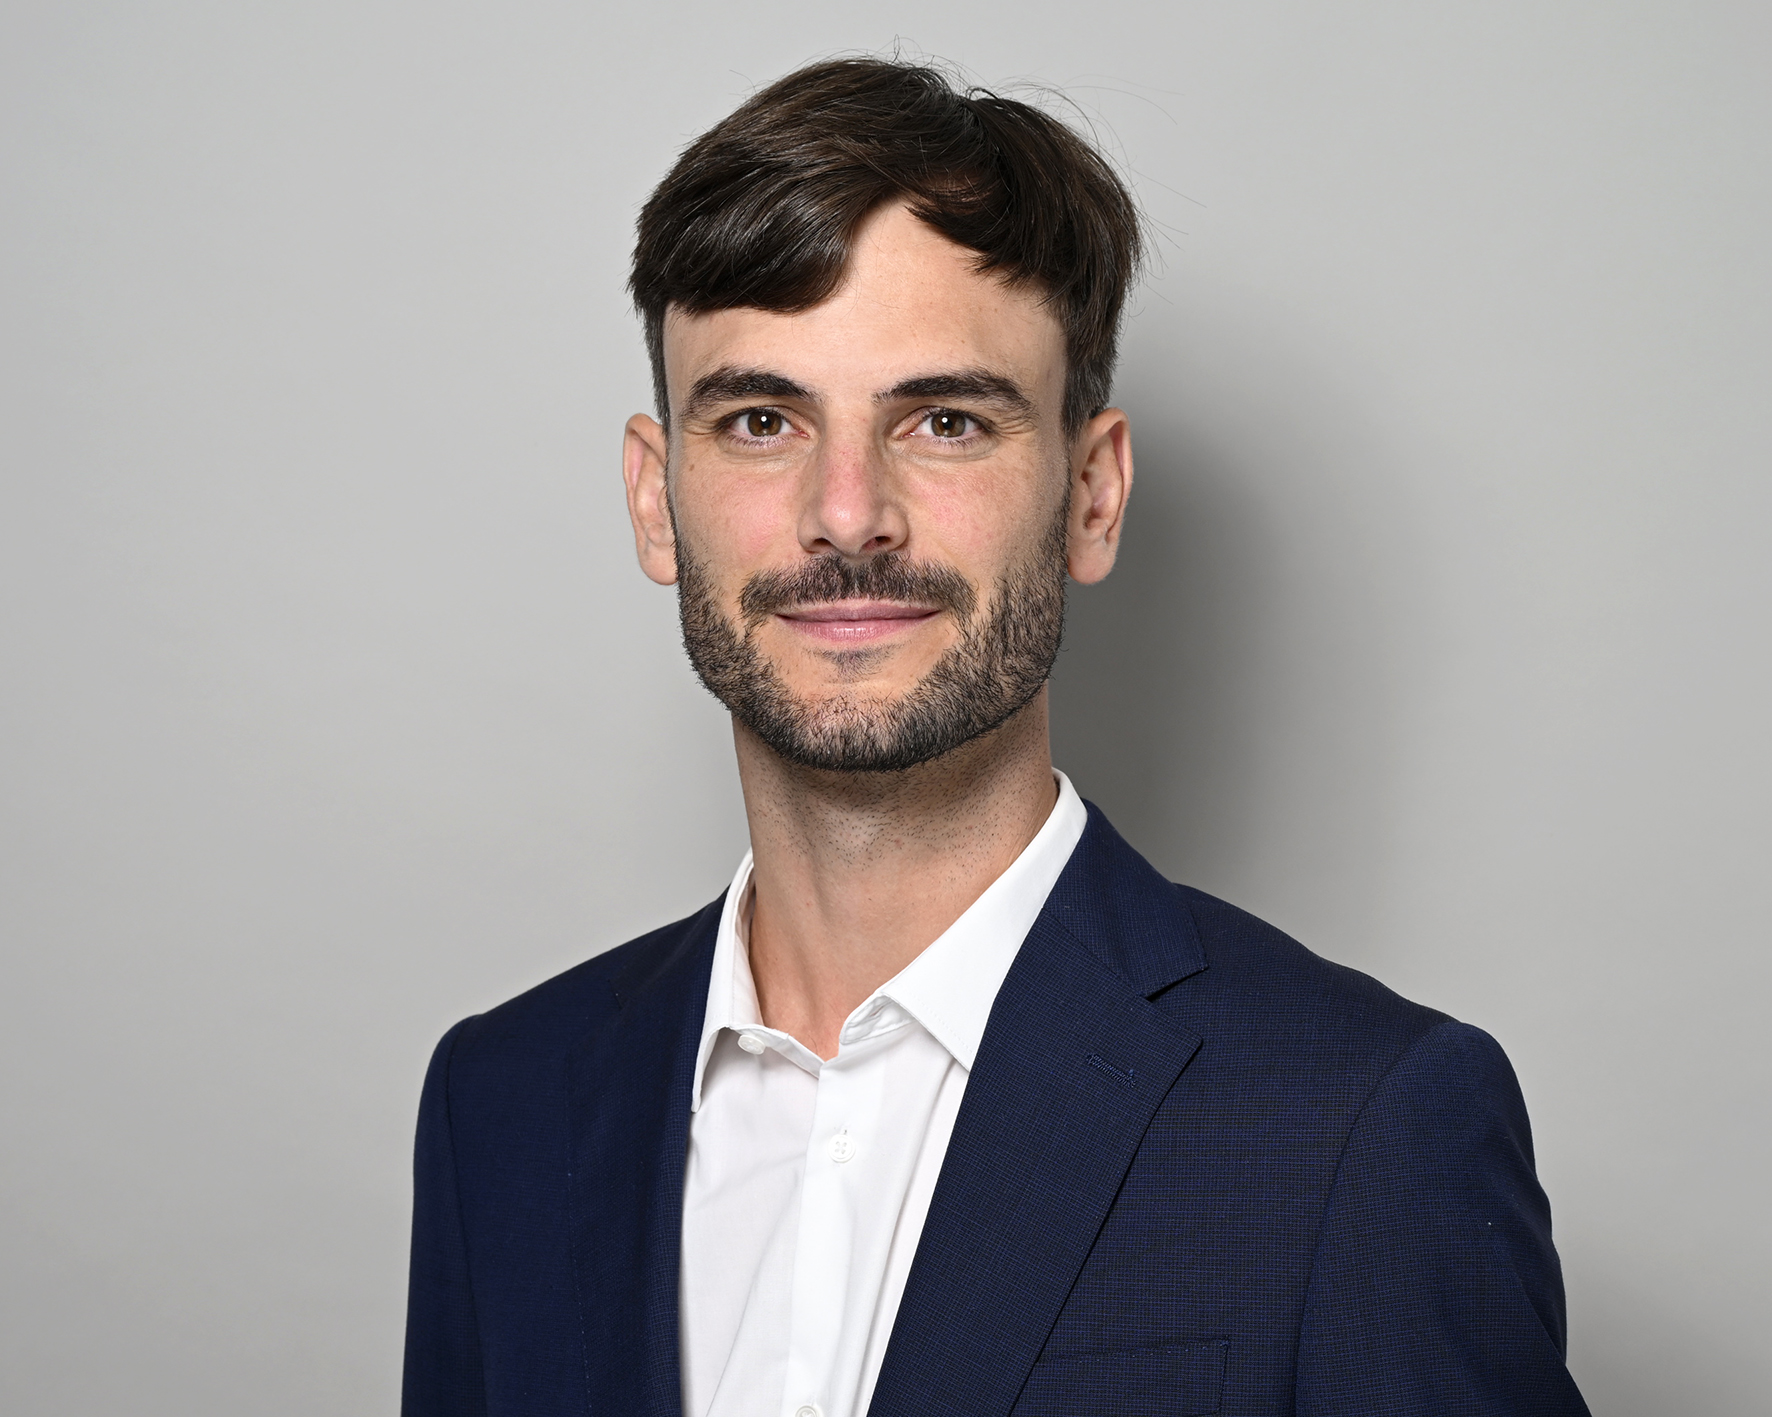
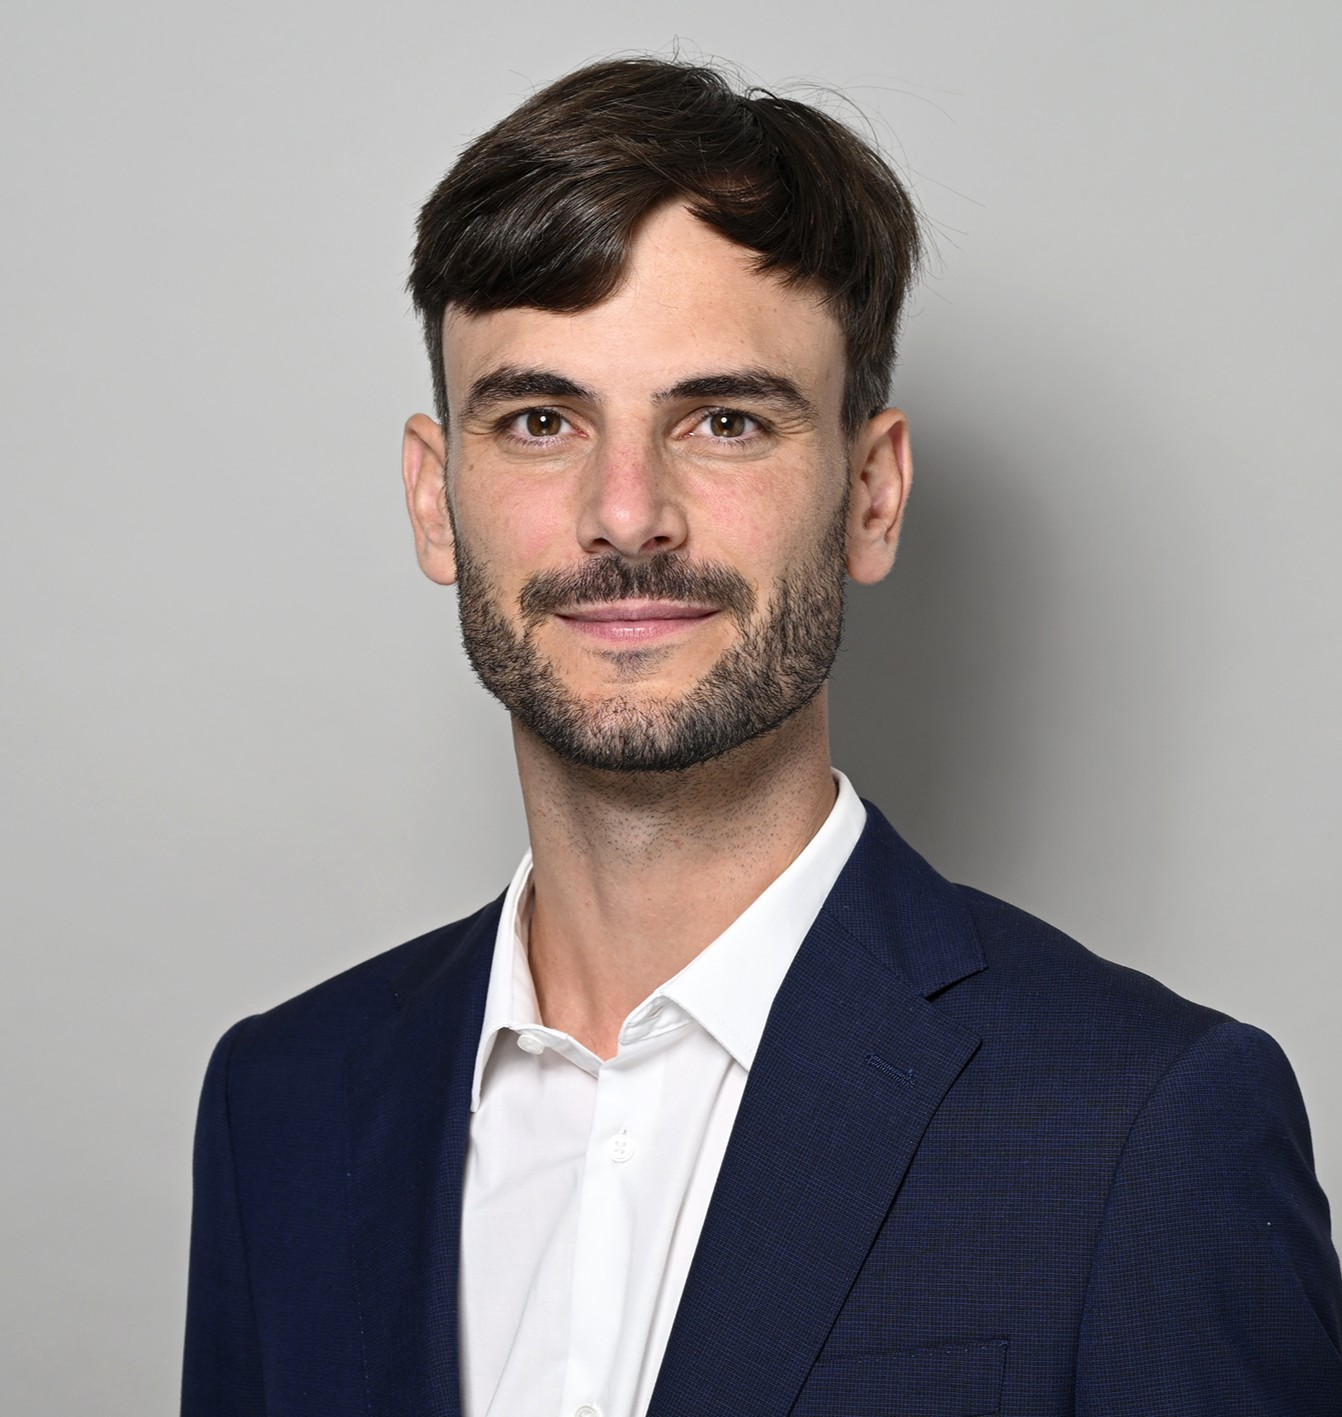
Title Case paper titles, new research fields, cropped photo

Changed region(s): [[0.1222, 0.0311, 1.0, 1.0], [0.4277, 0.8694, 0.5194, 1.0]]

diff --git a/Alexandre_Jenni_CV.tex b/Alexandre_Jenni_CV.tex
@@ -45,13 +45,13 @@ Sch\"{o}nberggasse 1 -  8001 Z\"{u}rich, CH      & \hspace{.5in}   \\
 May 2025-present   & Postdoctoral Researcher, Department of Economics, University of Zurich  \\
 
 \headercv{Work in Progress}	
-&  ``Child Penalty in the extended family'' with Jan Stuhler and Josef Zweimüller  \\	
-   &  ``Firms, inherited professional network and intergenerational mobility''  \\	
-   &  ``Ranking occupations using revealed preferences''  with Simon Zuzek \\
-     &  ``Taxing families''  with Jakob Wegmann and Josef Zweimüller \\ 
+&  ``Child Penalty in the Extended Family'' with Jan Stuhler and Josef Zweimüller  \\	
+   &  ``Firms, Inherited Professional Network and Intergenerational Mobility''  \\	
+   &  ``Ranking Occupations Using Revealed Preferences''  with Simon Zuzek \\
+     &  ``Taxing Families''  with Jakob Wegmann and Josef Zweimüller \\ 
 
 \headercv{Education} 	
-Aug. 2018-February 2025   & Ph.D. in Economics, University of Zurich  \\
+Aug. 2018-Feb. 2025   & Ph.D. in Economics, University of Zurich  \\
     & \quad  - Supervisors: Josef Zweim\"{u}ller and Florian Scheuer \\
         & \quad - Dissertation title: ``Exploring the determinants of earnings inequalities: child penalty, occupational amenity, and firm management'' \\
     & \quad - Visiting fellow at Opportunity Insights/Harvard University (Sep. 2022- May 2023)  \\

diff --git a/_pages/about.md b/_pages/about.md
@@ -22,7 +22,7 @@ I am a Postdoctoral Researcher in the Department of Economics and the URPP Human
 I completed my PhD in Economics at the University of Zurich in 2025, under the supervision of Josef Zweim&uuml;ller and Florian Scheuer, and was previously a visiting fellow at Opportunity Insights, Harvard University (2022-23).
 
 #### Research fields
-Labor Economics, Public Economics, Family Economics
+Labor and Public Economics, with a focus on Family Economics and Economic Inequality
 
 #### Contact information
 alexandre.jenni@econ.uzh.ch \\
